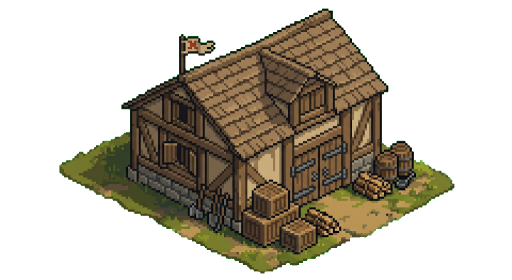
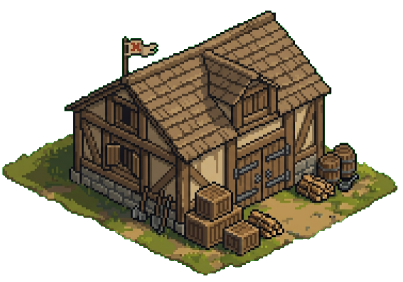
Add construction sprites, build preview, and building menu sprites
- Construction phase sprites for warehouse (foundation → framing → complete)
- Show completed building sprite as semi-transparent preview when placing
- Building menu cards use sprite as background-image with color fallback
- Update ASSET_GUIDE with construction sprite conventions

diff --git a/src/systems/RenderSystem.ts b/src/systems/RenderSystem.ts
@@ -14,6 +14,15 @@ import { Tile } from '@/map/Tile';
 import { dataManager } from '@/data/DataManager';
 import { TerrainTextures } from '@/rendering/TerrainTextures';
 
+// Construction phase sprites per building type (excluding the completed sprite).
+// During build, total frames = stages.length + 1 (the completed sprite is the last frame).
+const CONSTRUCTION_SPRITES: Record<string, string[]> = {
+  warehouse: [
+    '/assets/buildings/warehouse_build_0.png',
+    '/assets/buildings/warehouse_build_1.png',
+  ],
+};
+
 export class RenderSystem extends System {
   private ctx: CanvasRenderingContext2D;
   private canvas: HTMLCanvasElement;
@@ -65,15 +74,19 @@ export class RenderSystem extends System {
     // Center camera on map
     this.centerCamera();
 
-    // Preload all known building sprites
-    this.preloadSprites([
+    // Preload all known building sprites (completed + construction phases)
+    const allSprites = [
       '/assets/buildings/base_camp.png',
       '/assets/buildings/warehouse.png',
       '/assets/buildings/lumberjack.png',
       '/assets/buildings/sawmill.png',
       '/assets/buildings/quarry.png',
       '/assets/buildings/farm.png',
-    ]);
+    ];
+    for (const stages of Object.values(CONSTRUCTION_SPRITES)) {
+      allSprites.push(...stages);
+    }
+    this.preloadSprites(allSprites);
   }
 
   private preloadSprites(paths: string[]): void {
@@ -293,21 +306,45 @@ export class RenderSystem extends System {
       return;
     }
 
-    // Extract building type from mode (e.g., "build_warehouse" -> "warehouse")
     const buildingType = mode.replace('build_', '');
-
-    // Get building definition
     const buildingDef = dataManager.getBuilding(buildingType as any);
-    if (buildingDef) {
-      this.renderBuildingPreview(
-        gridX,
-        gridY,
-        buildingDef.size.width,
-        buildingDef.size.height,
-        buildingDef.visual.buildingHeight,
-        buildingDef.visual.color
-      );
+    if (!buildingDef) return;
+
+    const { size, visual } = buildingDef;
+    const spritePath = `/assets/buildings/${buildingType}.png`;
+    const sprite = this.loadSprite(spritePath);
+
+    if (sprite) {
+      this.renderSpritePreview(gridX, gridY, size.width, size.height, sprite);
+    } else {
+      this.renderBuildingPreview(gridX, gridY, size.width, size.height, visual.buildingHeight, visual.color);
     }
+  }
+
+  private renderSpritePreview(gridX: number, gridY: number, width: number, depth: number, sprite: HTMLImageElement): void {
+    const canPlace = this.canPlacePreview(gridX, gridY, width, depth);
+    const tileHighlight = canPlace ? 'rgba(255, 255, 255, 0.2)' : 'rgba(200, 50, 50, 0.35)';
+
+    this.highlightTiles(gridX, gridY, width, depth, tileHighlight);
+
+    const screenPos = this.iso.gridToScreen(gridX, gridY);
+    const tileW = this.iso.tileWidth;
+    const tileH = this.iso.tileHeight;
+
+    this.ctx.save();
+    this.ctx.globalAlpha = canPlace ? 0.6 : 0.4;
+    if (!canPlace) this.ctx.filter = 'saturate(0.3) brightness(0.8)';
+    this.ctx.translate(screenPos.x, screenPos.y - this.iso.tileHeight / 2);
+
+    const footprintW = (width + depth) * tileW / 2;
+    const scale = footprintW / sprite.naturalWidth;
+    const drawW = sprite.naturalWidth * scale;
+    const drawH = sprite.naturalHeight * scale;
+    const centerX = (width - depth) * tileW / 4;
+    const frontY = (width + depth) * tileH / 2;
+
+    this.ctx.drawImage(sprite, centerX - drawW / 2, frontY - drawH, drawW, drawH);
+    this.ctx.restore();
   }
 
   private renderRoadPreview(gridX: number, gridY: number): void {
@@ -586,8 +623,8 @@ export class RenderSystem extends System {
       this.ctx.globalAlpha = 0.7;
     }
 
-    // Apply visual treatment for under-construction buildings
-    if (isUnderConstruction) {
+    // Apply opacity fade for under-construction buildings without construction sprites
+    if (isUnderConstruction && !CONSTRUCTION_SPRITES[building!.buildingType]) {
       this.ctx.globalAlpha = 0.4 + 0.6 * building!.constructionProgress;
     }
 
@@ -672,8 +709,18 @@ export class RenderSystem extends System {
     this.ctx.restore();
   }
 
+  private getConstructionSpritePath(building: Building, renderable: Renderable): string | undefined {
+    if (building.state !== 'under_construction' || !renderable.spritePath) return renderable.spritePath;
+    const stages = CONSTRUCTION_SPRITES[building.buildingType];
+    if (!stages || stages.length === 0) return renderable.spritePath;
+    const totalFrames = stages.length + 1;
+    const frameIndex = Math.min(Math.floor(building.constructionProgress * totalFrames), stages.length);
+    return frameIndex < stages.length ? stages[frameIndex] : renderable.spritePath;
+  }
+
   private renderBuildingSprite(building: Building, renderable: Renderable, isSelected: boolean = false): void {
-    const sprite = renderable.spritePath ? this.loadSprite(renderable.spritePath) : null;
+    const spritePath = this.getConstructionSpritePath(building, renderable);
+    const sprite = spritePath ? this.loadSprite(spritePath) : null;
     if (!sprite) return;
 
     const tileW = this.iso.tileWidth;

diff --git a/src/ui/BuildingMenu.ts b/src/ui/BuildingMenu.ts
@@ -107,14 +107,26 @@ export class BuildingMenu {
       card.classList.add('unaffordable');
     }
 
-    // Building preview (colored square for now)
+    // Building preview (sprite if available, colored square fallback)
+    const spriteSrc = `/assets/buildings/${building.id}.png`;
+
     const preview = document.createElement('div');
     preview.className = 'building-preview';
-    preview.style.backgroundColor = building.visual.color;
     preview.style.width = '80px';
     preview.style.height = '60px';
     preview.style.borderRadius = '4px';
     preview.style.marginBottom = '8px';
+    preview.style.backgroundImage = `url(${spriteSrc})`;
+    preview.style.backgroundSize = 'cover';
+    preview.style.backgroundPosition = 'center';
+    preview.style.backgroundRepeat = 'no-repeat';
+
+    const testImg = new Image();
+    testImg.src = spriteSrc;
+    testImg.onerror = () => {
+      preview.style.backgroundImage = 'none';
+      preview.style.backgroundColor = building.visual.color;
+    };
 
     // Building name
     const name = document.createElement('div');

diff --git a/.claude/ASSET_GUIDE.md b/.claude/ASSET_GUIDE.md
@@ -424,19 +424,40 @@ Valid building type ids (see `src/types/GameData.ts` for the full list):
 
 ### Step 2: Set `spritePath` in `EntityFactory.ts`
 
-In `src/entities/EntityFactory.ts`, find the building's `case` in the `switch (buildingType)` block and add a `spritePath` line:
+In `src/entities/EntityFactory.ts`, find the `SPRITE_PATHS` map and add the building type:
 
 ```typescript
-case 'warehouse':
-  color = '#d4a574';
-  width = 3;
-  depth = 3;
-  height = 80;
-  spritePath = '/assets/buildings/warehouse.png';  // <-- add this
-  break;
+const SPRITE_PATHS: Record<string, string> = {
+  base_camp: '/assets/buildings/base_camp.png',
+  warehouse: '/assets/buildings/warehouse.png',
+  lumberjack: '/assets/buildings/lumberjack.png',  // <-- add new entries here
+};
 ```
 
-That's it. The `spritePath` variable is already declared above the switch. The Renderable component will automatically be created with type `'sprite'` when spritePath is set, and the RenderSystem will lazy-load and cache the image on first render.
+The Renderable component will automatically be created with type `'sprite'` when a spritePath is found, and the RenderSystem will lazy-load and cache the image on first render.
+
+### Step 3 (optional): Add construction phase sprites
+
+Buildings have build times. You can provide multiple sprites showing construction progress. Save them as:
+
+```
+assets/buildings/<type>_build_0.png   ← construction start (foundation, materials)
+assets/buildings/<type>_build_1.png   ← mid-construction (framing, walls)
+assets/buildings/<type>.png           ← completed building (already exists)
+```
+
+Then register them in `src/systems/RenderSystem.ts` in the `CONSTRUCTION_SPRITES` map:
+
+```typescript
+const CONSTRUCTION_SPRITES: Record<string, string[]> = {
+  warehouse: [
+    '/assets/buildings/warehouse_build_0.png',
+    '/assets/buildings/warehouse_build_1.png',
+  ],
+};
+```
+
+**How it works:** The build sprites + the completed sprite = total frames. The build time is divided equally among all frames. For a 60s warehouse with 2 build sprites + 1 completed = 3 frames → each shown for 20s. You can provide any number of build sprites per building. Buildings without construction sprites keep the existing opacity fade effect.
 
 ### How the sprite system works
 
@@ -524,7 +545,7 @@ When generating a building sprite with AI, include this in the prompt:
 As the project grows, add:
 - Animation frames for units
 - Seasonal variations (winter grass, autumn trees)
-- Building construction stages
+- More building construction stage sprites
 - Resource icons
 - UI theme assets
 - Particle effects (smoke, sparkles)
